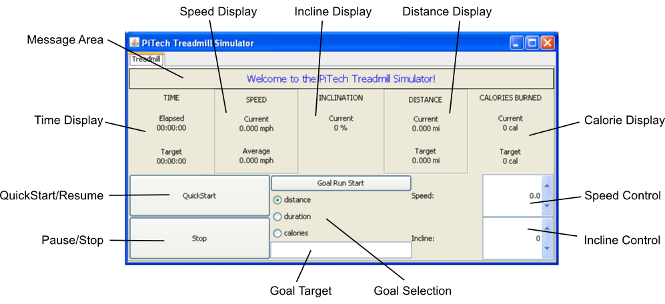
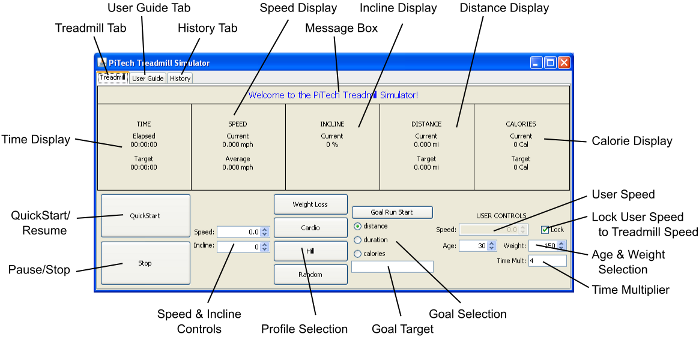
Updated User Guide

diff --git a/rsc/userguide.html b/rsc/userguide.html
@@ -1,27 +1,32 @@
 <!DOCTYPE HTML PUBLIC "-//W3C//DTD HTML 3.2 Final//EN">
+
+<!--Converted with LaTeX2HTML 2008 (1.71)
+original version by:  Nikos Drakos, CBLU, University of Leeds
+* revised and updated by:  Marcus Hennecke, Ross Moore, Herb Swan
+* with significant contributions from:
+  Jens Lippmann, Marek Rouchal, Martin Wilck and others -->
 <HTML>
 <HEAD>
 <TITLE>&#960;Tech Treadmill Simulator Software Users&#8217; Guide</TITLE>
-<LINK REL="STYLESHEET" HREF="userguide.css">
 </HEAD>
 <BODY >
-<P>
 <H1 ALIGN="CENTER">&#960;Tech Treadmill Simulator Software
 <BR>
 Users&#8217; Guide</H1>
-<P>
 
 <H1><A NAME="SECTION00030000000000000000">
 1 Introduction</A>
 </H1>
 The goal of this software product is to simulate the use of a treadmill. The
-program itself has two main sections:
+program itself has three main sections, accessible by tabs:
 
 <P>
 
 <OL>
 <LI>Treadmill control, which allows you to control the virtual treadmill and
-runner. This is described in sections <A HREF="#sec:control">3</A> and <A HREF="#sec:goals">4</A>.
+runner. This is described in sections <A HREF="#sec:control">3</A> and <A HREF="#sec:goals">4</A>,
+</LI>
+<LI>User Guide, which displays a copy of this user guide, and
 </LI>
 <LI>Workout History, which allows you to view the history of the runner over
 the course of all workouts. This is described in section <A HREF="#sec:history">5</A>.
@@ -34,12 +39,15 @@ the course of all workouts. This is described in section <A HREF="#sec:history">
 2 Simulator Interface</A>
 </H1>
 
-<DIV ALIGN="CENTER"><A NAME="25"></A>
+<P>
+
+<DIV ALIGN="CENTER"><A NAME="24"></A>
 <TABLE>
 <CAPTION ALIGN="BOTTOM"><STRONG>Figure 1:</STRONG>
 Interface of the Software</CAPTION>
 <TR><TD>
-<DIV ALIGN="CENTER"><IMG ALIGN="BOTTOM" BORDER="0"
+<DIV ALIGN="CENTER"><IMG
+ ALIGN="BOTTOM" BORDER="0"
  SRC="./pitech-labels.png"
  ALT="Image pitech-labels">
 </DIV></TD></TR>
@@ -48,47 +56,77 @@ Interface of the Software</CAPTION>
 
 <P>
 <DL>
+<DT><STRONG>Age &amp; Weight Selection</STRONG></DT>
+<DD>Select the age and weight of the virtual runner.
+Some calculations depend on these values.
+</DD>
 <DT><STRONG>Calorie Display</STRONG></DT>
-<DD>These are how many calories have been burned during the
-workout so far.
+<DD>These are how many calories have been burned by the
+virtual runner during the workout so far.
 </DD>
 <DT><STRONG>Distance Display</STRONG></DT>
-<DD>This is the distance someone would have traveled if they
-were running on the ground.
+<DD>This is the distance that the virtual runner has
+travelled.
 </DD>
 <DT><STRONG>Goal Selection</STRONG></DT>
 <DD>These three radio buttons select which type of goal to
 set.
 </DD>
 <DT><STRONG>Goal Target</STRONG></DT>
-<DD>Input the target distance, target duration, or target
-calories in this area.
+<DD>Input the target distance, duration, or calories in this
+area.
 </DD>
-<DT><STRONG>Incline Control</STRONG></DT>
-<DD>Increase or decrease the current belt incline.
+<DT><STRONG>History Tab</STRONG></DT>
+<DD>This displays a listing of detailed statistics about your run
+session.
 </DD>
 <DT><STRONG>Incline Display</STRONG></DT>
-<DD>This is the current inclination, in percent.
+<DD>This is the current inclination of the treadmill, in
+percent.
 </DD>
-<DT><STRONG>Message Area</STRONG></DT>
+<DT><STRONG>Lock User Speed</STRONG></DT>
+<DD>to treadmill speed. When this is checked, the virtual
+runner will match the pace of the treadmill belt.
+</DD>
+<DT><STRONG>Message Box</STRONG></DT>
 <DD>Displays important status messages from the treadmill.
 </DD>
 <DT><STRONG>Pause/Stop</STRONG></DT>
 <DD>Press this button once to pause the simulator. Press it again,
 while paused, to stop the simulator completely.
 </DD>
-<DT><STRONG>Speed Control</STRONG></DT>
-<DD>Increase or decrease the current belt speed.
-</DD>
-<DT><STRONG>Speed Display</STRONG></DT>
-<DD>This is the current speed setting.
+<DT><STRONG>Profile Selection</STRONG></DT>
+<DD>Select to run a built-in profile.
 </DD>
 <DT><STRONG>QuickStart/Resume</STRONG></DT>
-<DD>Starts the simulator if it is currently stopped. Also
+<DD>Starts the simulator if it is currently stopped, or
 resumes the session if the simulator is currently paused.
+</DD>
+<DT><STRONG>Speed &amp; Incline Controls</STRONG></DT>
+<DD>Increase or decrease the current belt speed and
+incline.
+</DD>
+<DT><STRONG>Speed Display</STRONG></DT>
+<DD>This is the speed at which the virtual runner is currently
+running.
 </DD>
 <DT><STRONG>Time Display</STRONG></DT>
 <DD>This displays the time elapsed so far.
+</DD>
+<DT><STRONG>Time Multiplier</STRONG></DT>
+<DD>How fast the simulation should run.
+</DD>
+<DT><STRONG>Treadmill Tab</STRONG></DT>
+<DD>This displays the main controls of the treadmill and
+virtual runner.
+</DD>
+<DT><STRONG>User Guide Tab</STRONG></DT>
+<DD>This displays a copy of this User Guide.
+</DD>
+<DT><STRONG>User Speed</STRONG></DT>
+<DD>Increase or decrease the speed of the virtual runner,
+independent of the speed of the treadmill. (Note: <B>Lock User Speed</B> must be
+unchecked to use this control.)
 </DD>
 </DL>
 
@@ -101,9 +139,7 @@ resumes the session if the simulator is currently paused.
 
 <P>
 There are two main ways to control the belt: manual user control (the default),
-and with a program. With manual user control, you have full control over the
-speed and inclination of the treadmill&#8217;s belt, while when using a program, the
-software will control the speed and inclination.
+and with a built-in profile.
 
 <P>
 
@@ -131,7 +167,7 @@ or remove a program, the treadmill must be stopped.
 <P>
 In addition to controlling the belt, you can set goals for yourself.  When you
 reach the goal, the program will automatically alert you in the <B>Message
-Area</B>. For more information on setting goals, see section sec:goals.
+Box</B>. For more information on setting goals, see section <A HREF="#sec:goals">4</A>.
 
 <P>
 
@@ -170,10 +206,6 @@ box</B>. The inclination has a minimum value of 0%, and a maximum of 15%.
 <LI>When the treadmill is running, pressing <B>Pause</B> will result in the
 belt slowing down and coming to a stop. The <B>QuickStart/Resume</B> button will
 display <B>Resume</B>, and the <B>Pause/Stop</B> button will display <B>Stop</B>.
-Also, a 5:00 timer will appear and start counting down. If <B>Resume</B> is
-pressed before the 5:00 timer is up, the belt resumes with the same speed and
-incline it had before Pause was pressed. If the timer runs out, then the
-treadmill resets.
 
 <P>
 </LI>
@@ -182,10 +214,10 @@ press <B>Resume</B>.
 
 <P>
 </LI>
-<LI>If the user presses <B>Stop</B> while the treadmill is paused, or if the
-5:00 timer runs out, then the treadmill will become stopped. When this happens,
-the speed and inclination are both reset to 0, and any goals or programs are
-lost. Also, the <B>QuickStart/Resume</B> button displays <B>QuickStart</B>.
+<LI>If the user presses <B>Stop</B> while the treadmill is paused then the
+treadmill will become stopped. When this happens, the speed and inclination are
+both reset to 0, and any goals or programs are lost. Also, the
+<B>QuickStart/Resume</B> button displays <B>QuickStart</B>.
 
 <P>
 </LI>
@@ -234,7 +266,7 @@ running manually, you will have to stop the treadmill. Press the
 <P>
 </LI>
 <LI>All controls in the manual user control, as described in section
-sec:manual, are also available, but the treadmill will also automatically
+<A HREF="#sec:manual">3.1</A>, are also available, but the treadmill will also automatically
 adjust the speed and incline.
 
 <P>
@@ -249,10 +281,10 @@ adjust the speed and incline.
 </H1>
 
 <P>
-Independent of the type of workout you choose, you have the option of setting a
-target goal. This is a useful option which will alert you when you have run a
+Independent of the type of workout you choose, you have the option of setting
+target goals. This is a useful option which will alert you when you have run a
 certain distance, burned a certain number of calories, or run for a certain
-length of time.
+length of time. You can set one of each type of goal at any given time.
 
 <P>
 
@@ -276,8 +308,6 @@ that type active, the <B>Target</B> will display zero.
 </LI>
 <LI>Press <B>Goal Run Start</B> to activate your goal.
 </LI>
-<LI>The <B>Goal Run Start</B> button will become an <B>Unset Goal</B> button.
-</LI>
 </OL>
 
 <P>
@@ -299,10 +329,10 @@ Selection</B> and <B>Goal Target</B> inputs.
 <P>
 
 <OL>
-<LI>Select <B>Unset Goal</B> to continue running without the goal.
+<LI>Select the type of the goal that you want to clear (distance, duration, or
+calories).
 </LI>
-<LI>The <B>Goal Target</B> will clear, and the <B>Unset Goal</B> button will
-revert to the <B>Goal Run Start</B> button, ready for another goal.
+<LI>Enter a goal of zero and select <B>Goal Run Start</B>.
 </LI>
 <LI>The treadmill will continue moving at the same speed with the same
 inclination.
@@ -316,7 +346,7 @@ inclination.
 </H2>
 
 <P>
-When you reach a goal, the program displays a message in the <B>Message Area</B>.
+When you reach a goal, the program displays a message in the <B>Message Box</B>.
 It continues moving at the same speed and incline, and you are free to input
 another goal.
 
@@ -354,5 +384,6 @@ calories burnt per workout.
 <LI>Select the <B>Treadmill Tab</B> to return to the treadmill control.
 </LI>
 </OL>
+
 </BODY>
 </HTML>

diff --git a/ControlTab.java b/ControlTab.java
@@ -136,7 +136,9 @@ public class ControlTab extends JPanel {
 		calPanel.add(labelCaloriesCurVal, new GBC(0, 2).inset(0,0,10));
 		calPanel.add(new JLabel("Target"), new GBC(0, 3));
 		calPanel.add(labelCaloriesTargVal, new GBC(0, 4).inset(0,0,10).anchor(GBC.NORTH));
+		/*
 		calPanel.setBorder(BorderFactory.createMatteBorder(0,0,0,1,Color.BLACK));
+		*/
 		panelOutputs.add(calPanel);
 
 		/* Radio Controls */
